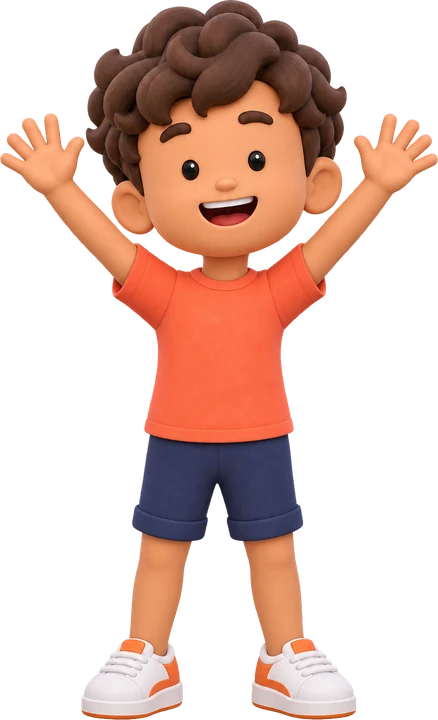
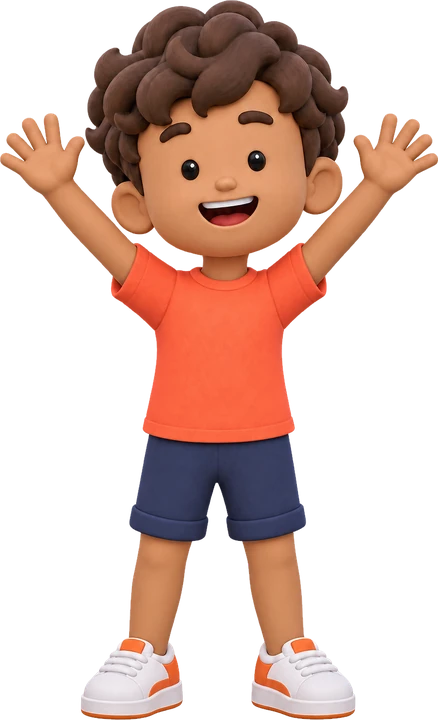
About scene 03: new cheer pose for the first player
Claude-Session: https://claude.ai/code/session_017aKstFPrEwJGuv6yejYsHQ

diff --git a/index.html b/index.html
@@ -2265,7 +2265,7 @@ dialog.gdlg .close{position:absolute;top:12px;right:12px;z-index:3;width:44px;he
       <ul class="ab-how">
         <li><div class="hw hw-1" aria-hidden="true"><span class="hw-floor"></span><span class="hw-proj"></span><span class="hw-pad hw-pad-a"><svg viewBox="0 0 40 60" aria-hidden="true"><ellipse cx="20" cy="38" rx="13" ry="19"/><circle cx="9" cy="12" r="4.6"/><circle cx="17" cy="7" r="4.2"/><circle cx="25" cy="7" r="3.8"/><circle cx="31" cy="11" r="3.3"/><circle cx="35" cy="17" r="2.8"/></svg><i></i></span><span class="hw-pad hw-pad-b"><svg viewBox="0 0 40 60" aria-hidden="true"><ellipse cx="20" cy="38" rx="13" ry="19"/><circle cx="9" cy="12" r="4.6"/><circle cx="17" cy="7" r="4.2"/><circle cx="25" cy="7" r="3.8"/><circle cx="31" cy="11" r="3.3"/><circle cx="35" cy="17" r="2.8"/></svg><i></i></span><span class="hw-kid hw-kid-s1"><img class="p-n" src="assets/kid-s1-n.webp" alt="" decoding="async"><img class="p-l" src="assets/kid-s1-l.webp" alt="" decoding="async"><img class="p-r" src="assets/kid-s1-r.webp" alt="" decoding="async"></span><span class="hw-dev"><img src="assets/hw-device.webp" alt="" loading="lazy" decoding="async"><span class="hw-gauge"><b></b></span><span class="hw-spark"></span></span></div><span class="num">01</span><h3>움직임으로 조작해요.</h3><p>별도의 컨트롤러 없이 발을 구르고, 뛰고, 옆으로 움직이며 게임을 진행합니다.</p></li>
         <li><div class="hw hw-2" aria-hidden="true"><span class="hw-floor"></span><span class="hw-kid hw-kid-s2"><img class="p-p" src="assets/kid-s2-p.webp" alt="" decoding="async"></span><span class="hw-opts"><span class="hw-opt hw-opt-1"><img src="assets/hw-tile-1.webp" alt="" loading="lazy"></span><span class="hw-opt hw-opt-2"><img class="off" src="assets/hw-tile-2off.webp" alt="" loading="lazy"><img class="on" src="assets/hw-tile-2.webp" alt="" loading="lazy"><i class="hw-check"></i></span><span class="hw-opt hw-opt-3"><img src="assets/hw-tile-3.webp" alt="" loading="lazy"></span><span class="hw-ring"></span></span></div><span class="num">02</span><h3>게임에 맞춰 운동을 선택해요.</h3><p>게임마다 제시되는 운동 중 하나를 선택하고, 플레이 시간과 참여 인원을 설정할 수 있습니다.</p></li>
-        <li><div class="hw hw-3" aria-hidden="true"><span class="hw-floor"></span><span class="hw-goal"><span class="hw-chip"><em class="a">1인 참여</em><em class="b">4인 협동</em></span><span class="hw-track"><b></b></span><span class="hw-star"></span></span><span class="hw-kid hw-k3 hw-f hw-f-a" style="aspect-ratio:477/720"><img class="w" src="assets/kid-s3-aw.webp" alt="" decoding="async"><img class="h" src="assets/kid-s3-ah.webp" alt="" decoding="async"></span><span class="hw-kid hw-k3 hw-f hw-f-b" style="aspect-ratio:467/720"><img class="w" src="assets/kid-s3-bw.webp" alt="" decoding="async"><img class="h" src="assets/kid-s3-bh.webp" alt="" decoding="async"></span><span class="hw-kid hw-k3 hw-f hw-f-m" style="aspect-ratio:438/720"><img class="s" src="assets/kid-s3-ms.webp" alt="" decoding="async"><img class="h" src="assets/kid-s3-mh.webp" alt="" decoding="async"></span><span class="hw-kid hw-k3 hw-f hw-f-c" style="aspect-ratio:437/720"><img class="w" src="assets/kid-s3-cw.webp" alt="" decoding="async"><img class="h" src="assets/kid-s3-ch.webp" alt="" decoding="async"></span></div><span class="num">03</span><h3>혼자서도, 친구와도 즐겨요.</h3><p>개인전과 협동전을 통해 최대 다섯 명이 함께 게임에 참여할 수 있습니다.</p></li>
+        <li><div class="hw hw-3" aria-hidden="true"><span class="hw-floor"></span><span class="hw-goal"><span class="hw-chip"><em class="a">1인 참여</em><em class="b">4인 협동</em></span><span class="hw-track"><b></b></span><span class="hw-star"></span></span><span class="hw-kid hw-k3 hw-f hw-f-a" style="aspect-ratio:477/720"><img class="w" src="assets/kid-s3-aw.webp" alt="" decoding="async"><img class="h" src="assets/kid-s3-ah.webp" alt="" decoding="async"></span><span class="hw-kid hw-k3 hw-f hw-f-b" style="aspect-ratio:467/720"><img class="w" src="assets/kid-s3-bw.webp" alt="" decoding="async"><img class="h" src="assets/kid-s3-bh.webp" alt="" decoding="async"></span><span class="hw-kid hw-k3 hw-f hw-f-m" style="aspect-ratio:438/720"><img class="s" src="assets/kid-s3-ms.webp" alt="" decoding="async"><img class="h" src="assets/kid-s3-mh.webp?v=2" alt="" decoding="async"></span><span class="hw-kid hw-k3 hw-f hw-f-c" style="aspect-ratio:437/720"><img class="w" src="assets/kid-s3-cw.webp" alt="" decoding="async"><img class="h" src="assets/kid-s3-ch.webp" alt="" decoding="async"></span></div><span class="num">03</span><h3>혼자서도, 친구와도 즐겨요.</h3><p>개인전과 협동전을 통해 최대 다섯 명이 함께 게임에 참여할 수 있습니다.</p></li>
       </ul>
     </div>
   </section>
